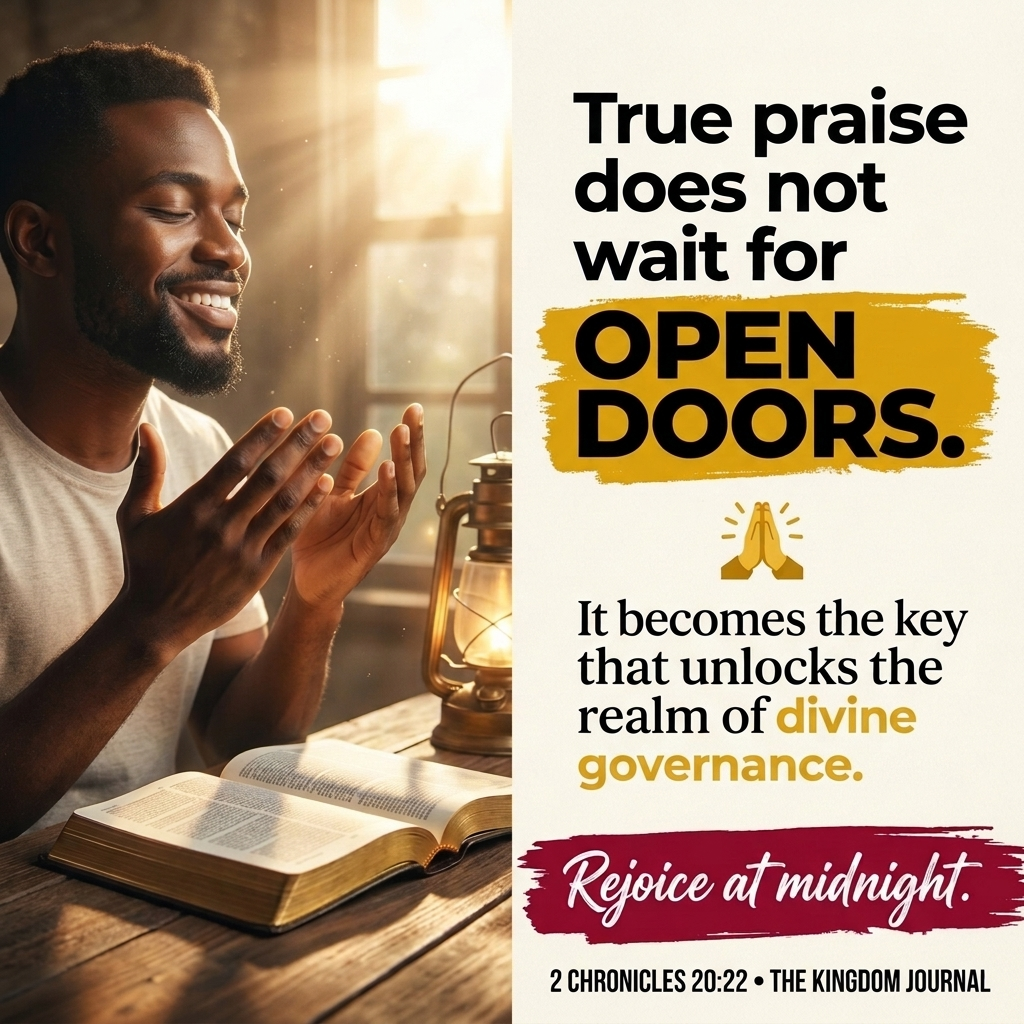
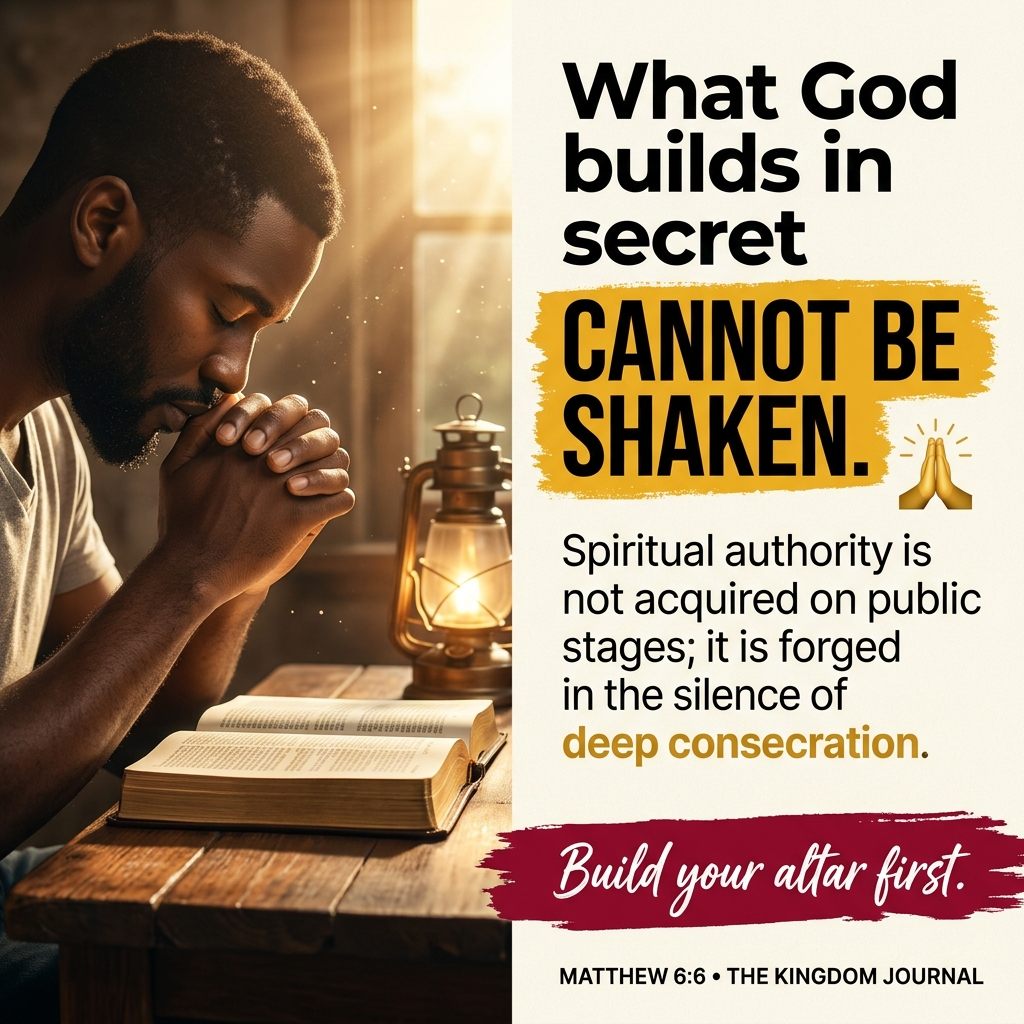
feat(issue-49): dispatch The Protocol of the Secret Place with viral flyers

diff --git a/scripts/send_luxury_editorial_email.py b/scripts/send_luxury_editorial_email.py
@@ -439,28 +439,32 @@ def build_luxury_email_html(links: dict, captions: dict, essay_data: dict, quote
 </body>
 </html>"""
 
-def send_luxury_editorial_email(recipient: str, subject: str = None, fliers_dir: Path = None):
+def send_luxury_editorial_email(recipient: str, subject: str = None, fliers_dir: Path = None, override_topic: dict = None):
     load_env_file()
     fliers_dir = fliers_dir or Path(__file__).resolve().parent.parent / "reports" / "fliers"
     
     # 1. PILLAR 3: Analyze live YouTube videos to extract the best punchy line
-    youtube_insight = {
-        "title": "When Words Are Not Enough",
-        "hook_top": "When words are not enough",
-        "banner_text": "Let Your Worship Speak",
-        "quote": "When words are not enough, let your worship speak.",
-        "speaker": "Mercy Chinwo & Apostle Joshua Selman",
-        "scripture": "Romans 8:26 • Psalm 46:10",
-        "videos": []
-    }
-    if youtube_quote_analyzer:
-        try:
-            analyzed = youtube_quote_analyzer.analyze_trending_gospel_videos()
-            if analyzed and analyzed.get("quote"):
-                youtube_insight = analyzed
-                print(f"[PIPELINE STEP 1] YouTube Analysis complete. Extracted line: '{youtube_insight['quote']}'")
-        except Exception as ey:
-            print(f"[PIPELINE NOTICE] YouTube analysis fallback: {ey}", file=sys.stderr)
+    if override_topic:
+        youtube_insight = override_topic
+        print(f"[PIPELINE STEP 1] Using custom trending topic: '{youtube_insight.get('title')}'")
+    else:
+        youtube_insight = {
+            "title": "When Words Are Not Enough",
+            "hook_top": "When words are not enough",
+            "banner_text": "Let Your Worship Speak",
+            "quote": "When words are not enough, let your worship speak.",
+            "speaker": "Mercy Chinwo & Apostle Joshua Selman",
+            "scripture": "Romans 8:26 • Psalm 46:10",
+            "videos": []
+        }
+        if youtube_quote_analyzer:
+            try:
+                analyzed = youtube_quote_analyzer.analyze_trending_gospel_videos()
+                if analyzed and analyzed.get("quote"):
+                    youtube_insight = analyzed
+                    print(f"[PIPELINE STEP 1] YouTube Analysis complete. Extracted line: '{youtube_insight['quote']}'")
+            except Exception as ey:
+                print(f"[PIPELINE NOTICE] YouTube analysis fallback: {ey}", file=sys.stderr)
 
     # 2. PILLAR 2: Generate humanized editorial essay and multi-platform captions
     engine = humanized_content_engine.HumanizedContentEngine(

diff --git a/scripts/dispatch_topic.py b/scripts/dispatch_topic.py
@@ -1,0 +1,37 @@
+"""
+Custom Dispatcher for Today's Second Trending Gospel Topic:
+"The Protocol of the Secret Place" (Issue 49)
+"""
+
+import sys
+from pathlib import Path
+
+BASE_DIR = Path(__file__).resolve().parent.parent
+sys.path.insert(0, str(BASE_DIR / "scripts"))
+
+import send_luxury_editorial_email
+
+new_topic = {
+    "title": "The Protocol of the Secret Place",
+    "hook_top": "What God builds in secret",
+    "banner_text": "CANNOT BE SHAKEN",
+    "quote": "Spiritual authority is not acquired on public stages; it is forged in the silence of deep consecration.",
+    "speaker": "Dunsin Oyekan & Apostle Joshua Selman",
+    "scripture": "Matthew 6:6 • Psalm 91:1",
+    "videos": [
+        {"title": "DUNSIN OYEKAN || THE SECRET PLACE WORSHIP LIVE", "channel": "Dunsin Oyekan"},
+        {"title": "APOSTLE JOSHUA SELMAN || KOINONIA 2026 LIVE", "channel": "Koinonia Global"},
+        {"title": "VICTORIA ORENZE || DEEP CONSECRATION PRAYER SESSION", "channel": "Victoria Orenze"}
+    ]
+}
+
+success = send_luxury_editorial_email.send_luxury_editorial_email(
+    recipient="aondoaseerezekiel@gmail.com",
+    subject="🕊 The Kingdom Journal • The Protocol of the Secret Place (Issue 49)",
+    override_topic=new_topic
+)
+
+if success:
+    print("\n[DISPATCH CONFIRMED] Issue 49 successfully delivered to aondoaseerezekiel@gmail.com")
+else:
+    print("\n[DISPATCH FAILED] Email delivery failed.")
